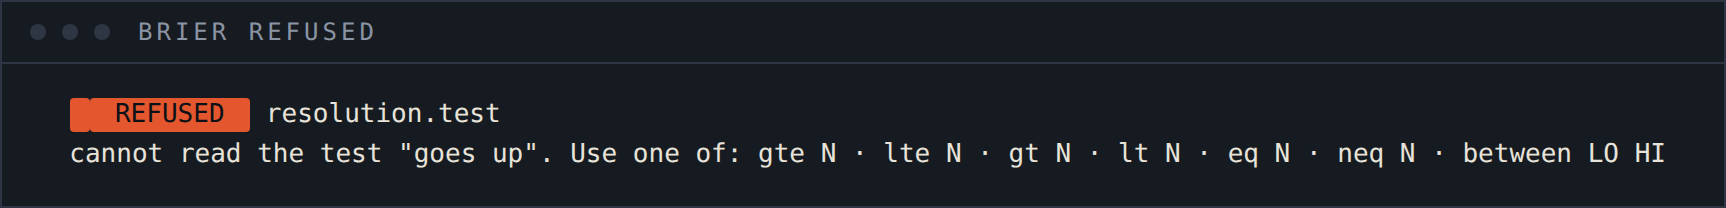
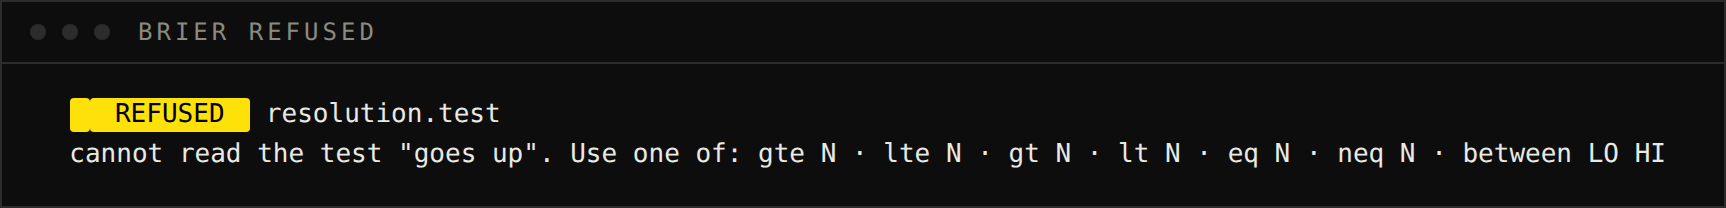
brand: the Sigma mark and the yellow palette
The mark is the summation sign: every number this tool prints is a sum over
settled forecasts. Accent moves from vermilion to #FFE10A on black, and the
rule it obeys is unchanged — yellow marks a miss, being right is unmarked.

icon.png and banner.png are supplied artwork and the only two designed images
here; every terminal screenshot is still a captured transcript of the real
command, regenerated from the new palette.

Changed region(s): [[0.0307, 0.4615, 0.1535, 0.6346], [0.0614, 0.0865, 0.2149, 0.2019]]

diff --git a/src/util/fmt.ts b/src/util/fmt.ts
@@ -2,11 +2,11 @@
 
 const C = {
   reset: "\x1b[0m",
-  text: "\x1b[38;2;232;227;217m",
-  muted: "\x1b[38;2;139;148;163m",
-  accent: "\x1b[38;2;228;87;46m",
-  onAccent: "\x1b[48;2;228;87;46m\x1b[38;2;13;17;23m",
-  line: "\x1b[38;2;46;54;67m",
+  text: "\x1b[38;2;233;233;228m",
+  muted: "\x1b[38;2;138;138;130m",
+  accent: "\x1b[38;2;255;225;10m",
+  onAccent: "\x1b[48;2;255;225;10m\x1b[38;2;0;0;0m",
+  line: "\x1b[38;2;44;44;44m",
 } as const;
 
 const plain = (): boolean => process.env.NO_COLOR !== undefined || !process.stdout.isTTY;

diff --git a/assets/term2png.py b/assets/term2png.py
@@ -28,10 +28,10 @@ FONT = (
     "href='https://fonts.googleapis.com/css2?family=JetBrains+Mono:wght@400;500&display=swap'>"
 )
 
-PAPER = "#0D1117"
-PANEL = "#161B22"
-LINE = "#2E3643"
-INK = "#E8E3D9"
+PAPER = "#000000"
+PANEL = "#0D0D0D"
+LINE = "#2C2C2C"
+INK = "#E9E9E4"
 
 # The 24-bit colours util/fmt.ts emits, mapped to names for the CSS below.
 TRUECOLOR = re.compile(r"38;2;(\d+);(\d+);(\d+)")
@@ -85,7 +85,7 @@ def page(body: str, title: str) -> str:
       html,body{{margin:0;background:{PAPER};font-family:'JetBrains Mono',ui-monospace,monospace}}
       .frame{{margin:24px;border:1px solid {LINE};background:{PANEL}}}
       .bar{{display:flex;gap:8px;align-items:center;padding:8px 14px;border-bottom:1px solid {LINE};
-            color:#8B94A3;font-size:12px;letter-spacing:2px;text-transform:uppercase}}
+            color:#8A8A82;font-size:12px;letter-spacing:2px;text-transform:uppercase}}
       .dot{{width:8px;height:8px;border-radius:50%;background:{LINE}}}
       pre{{margin:0;padding:16px 18px;color:{INK};font-size:13px;line-height:1.5;white-space:pre;
            overflow:hidden;font-variant-numeric:tabular-nums}}

diff --git a/docs/BRAND.md b/docs/BRAND.md
@@ -16,23 +16,25 @@ Every command comes from the same world: `ask`, `seal`, `pending`, `settle`, `sc
 
 ## The mark
 
-A reliability diagram at its smallest: a diagonal reference line, two dots that landed on the truth, and one
-that did not. The miss is the only thing in it with colour.
+**Σ** — the summation sign, in yellow on black. Every number this tool prints is a sum over settled
+forecasts: the Brier score is a mean of squares, the decomposition is a weighted sum over bins, the
+calibration diagram is a count. The mark is the operation.
 
-It has to read at 40 px in a list of repositories, so there is nothing else in it.
+It carries no diagram and no ornament, so it reads at 40 px in a list of repositories, which is the size that
+matters.
 
 ## Palette
 
 | Token | Hex | Where |
 |---|---|---|
-| `ground` | `#0D1117` | every surface |
-| `panel` | `#161B22` | panels on the ground |
-| `line` | `#2E3643` | every hairline, and the reference line in the diagram |
-| `text` | `#E8E3D9` | probabilities, names, headline numbers |
-| `muted` | `#8B94A3` | labels, reasons, footnotes |
-| `accent` | `#E4572E` | **a miss, and nothing else** |
+| `ground` | `#000000` | every surface |
+| `panel` | `#0D0D0D` | panels on the ground |
+| `line` | `#2C2C2C` | every hairline, and the reference line in the diagram |
+| `text` | `#E9E9E4` | probabilities, names, headline numbers |
+| `muted` | `#8A8A82` | labels, reasons, footnotes |
+| `accent` | `#FFE10A` | **a miss, and nothing else** |
 
-**Vermilion marks a miss. Being right is unmarked.**
+**Yellow marks a miss. Being right is unmarked.**
 
 Colour appears on a bin that sits away from the reference line, an overconfidence gap above five points,
 negative skill, a refused question, and the heading of whatever you are reading. It never appears on a good
@@ -68,7 +70,9 @@ Nothing in `assets/` is drawn by hand or screenshotted from a design tool.
 
 | File | Made by |
 |---|---|
-| `icon.png`, `banner.png` | `python assets/render.py` — the SVGs through headless Chromium at 2× |
-| `score.png`, `calibrate.png`, `panel.png`, `refused.png` | `python assets/term2png.py <capture>.txt <out>.png` — the bytes the program actually wrote, repainted in the palette |
+| `icon.png`, `banner.png` | supplied artwork — the wordmark and the mark, the only two images here that were designed rather than generated |
+| `score.png`, `calibrate.png`, `panel.png`, `refused.png` | `python assets/term2png.py <capture>.txt <out>.png` — **the bytes the program actually wrote**, repainted in the palette |
 
-A palette change is one edit to `design-tokens.json`, one to the three files that mirror it, and one command.
+No terminal image in this README was screenshotted by hand. Each one is a captured transcript of the real
+command, so the numbers in the pictures are the numbers the tool prints and a palette change regenerates
+every one of them from `design-tokens.json` plus the two files that mirror it.

diff --git a/README.md b/README.md
@@ -6,12 +6,12 @@
 </p>
 
 <p align="center">
-  <img alt="tests" src="https://img.shields.io/badge/tests-66%20passing-E4572E?style=flat-square&labelColor=0D1117">
-  <img alt="node" src="https://img.shields.io/badge/node-%E2%89%A520-E8E3D9?style=flat-square&labelColor=0D1117">
-  <img alt="runtime deps" src="https://img.shields.io/badge/runtime%20deps-1-E8E3D9?style=flat-square&labelColor=0D1117">
-  <img alt="network" src="https://img.shields.io/badge/offline-by%20default-E8E3D9?style=flat-square&labelColor=0D1117">
-  <img alt="scoring" src="https://img.shields.io/badge/scoring-proper%20rules-E8E3D9?style=flat-square&labelColor=0D1117">
-  <img alt="license" src="https://img.shields.io/badge/license-MIT-E4572E?style=flat-square&labelColor=0D1117">
+  <img alt="tests" src="https://img.shields.io/badge/tests-66%20passing-FFE10A?style=flat-square&labelColor=000000">
+  <img alt="node" src="https://img.shields.io/badge/node-%E2%89%A520-E9E9E4?style=flat-square&labelColor=000000">
+  <img alt="runtime deps" src="https://img.shields.io/badge/runtime%20deps-1-E9E9E4?style=flat-square&labelColor=000000">
+  <img alt="network" src="https://img.shields.io/badge/offline-by%20default-E9E9E4?style=flat-square&labelColor=000000">
+  <img alt="scoring" src="https://img.shields.io/badge/scoring-proper%20rules-E9E9E4?style=flat-square&labelColor=000000">
+  <img alt="license" src="https://img.shields.io/badge/license-MIT-FFE10A?style=flat-square&labelColor=000000">
 </p>
 
 <p align="center">
